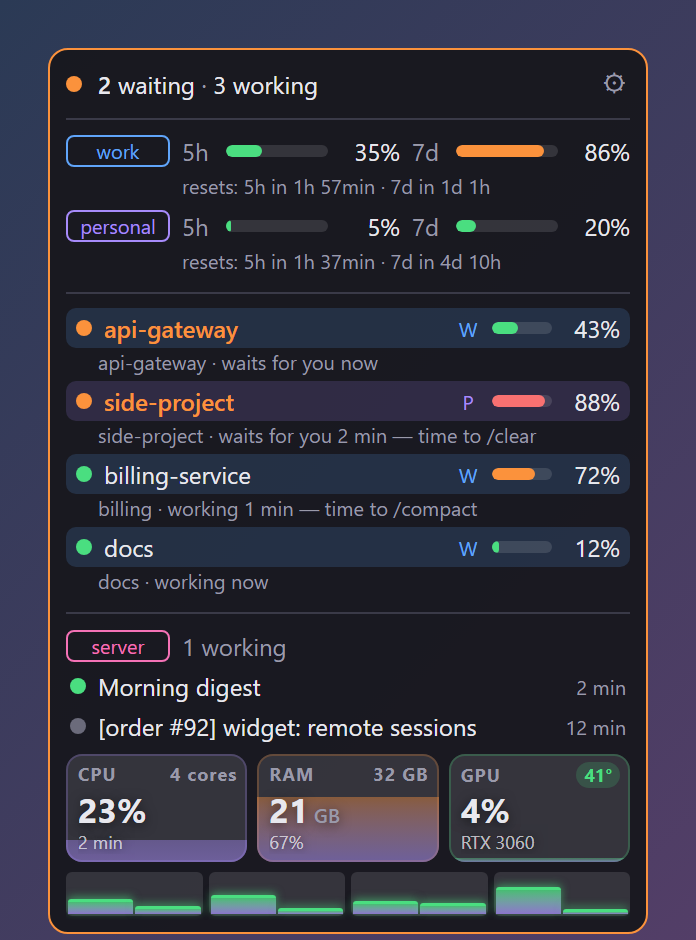
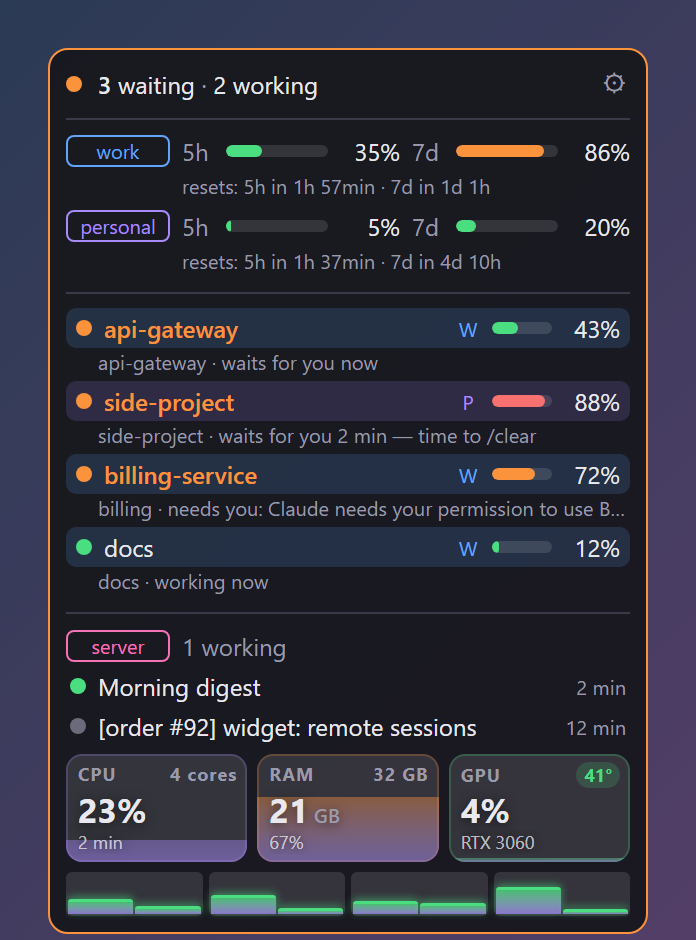
A session the session hub says waits (a permission, a question) shows as "needs you" with what it asks
settings.remote.hubUrl (through the pass URL): the hub's WAITING sessions by Claude Code's session id; the local session files can't tell a permission prompt from working. README, demo data and screenshots.

Changed region(s): [[0.0905, 0.4936, 0.875, 0.5553]]

diff --git a/ui/widget.js b/ui/widget.js
@@ -24,7 +24,10 @@ const folder = (p) => String(p || '').split(/[\\/]/).filter(Boolean).pop() || p
 // A session "waits" when its turn is over (idle) and you haven't clicked it since: the click is the "seen".
 // "shell": the turn is over but a background command still runs (a dev server, a watcher) — the turn is yours like idle;
 // counting it as working left finished sessions "working" for hours (owner 2026-10-20)
-const state = (s) => s.status === 'busy' ? 'busy'
+// the session hub knows what the files don't: a session that waits for a permission or an answer (settings.remote.hubUrl)
+let hubWaiting = {}       // sessionId → what it asks ('' when the hub keeps no text, e.g. a work account)
+const state = (s) => s.sessionId in hubWaiting ? 'wait'
+  : s.status === 'busy' ? 'busy'
   : s.status === 'idle' || s.status === 'shell' ? ((seen[s.sessionId] || 0) >= s.since ? 'idle' : 'wait')
   : 'wait'                // anything else (a permission prompt…) needs you
 const ago = (ms) => {
@@ -114,7 +117,9 @@ function render() {
     const st = state(s)
     const ctx = s.context != null ? Math.round(s.context) : null
     const hint = ctx == null ? '' : ctx >= th.contextFull ? ' — ' + T.clear : ctx >= th.contextWarn ? ' — ' + T.compact : ''
-    const doing = `${st === 'busy' ? T.working : st === 'wait' ? T.waitsForYou : T.free}${s.status === 'shell' ? ' · ' + T.background : ''} ${ago(s.since)}`
+    const asks = s.sessionId in hubWaiting
+    const doing = asks ? T.needsYou + (hubWaiting[s.sessionId] ? ': ' + hubWaiting[s.sessionId] : '')
+      : `${st === 'busy' ? T.working : st === 'wait' ? T.waitsForYou : T.free}${s.status === 'shell' ? ' · ' + T.background : ''} ${ago(s.since)}`
     // the row's tooltip: what the details line and the hidden parts would say (chips and dots show no words)
     const info = [s.name || folder(s.cwd), s.cwd, doing + (s.kind === 'bg' ? ' · ' + T.bg : ''),
       ctx != null ? `${T.context} ${ctx}%${hint}` : '', many ? s.account : ''].filter(Boolean).join('\n')
@@ -224,14 +229,16 @@ let remoteTimer = null
 async function pollRemote() {
   clearTimeout(remoteTimer)
   const r = S.remote
-  if (!r.enabled) { remoteSys = remoteRuns = null; remoteErr = ''; rHist.cpu.length = rHist.mem.length = rHist.gpu.length = 0; drawRemote(); return }
-  const [h, runs] = await Promise.all([
+  if (!r.enabled) { remoteSys = remoteRuns = null; remoteErr = ''; hubWaiting = {}; rHist.cpu.length = rHist.mem.length = rHist.gpu.length = 0; drawRemote(); return }
+  const [h, runs, waits] = await Promise.all([
     r.hostUrl ? invoke('remote_host').then(v => [v]).catch(e => [null, e]) : [null],
     r.runsUrl ? invoke('remote_runs').then(v => [v]).catch(e => [null, e]) : [null],
+    r.hubUrl ? invoke('remote_waiting').then(v => [v]).catch(e => [null, e]) : [null],
   ])
+  hubWaiting = Object.fromEntries((waits[0] || []).map(w => [w.sessionId, w.reason || '']))
   remoteSys = h[0]
   remoteRuns = runs[0]
-  remoteErr = [h[1], runs[1]].filter(Boolean).map(String).join(' · ')
+  remoteErr = [h[1], runs[1], waits[1]].filter(Boolean).map(String).join(' · ')
   if (remoteSys) {
     rHist.cpu.push(remoteSys.cpu)
     rHist.mem.push(remoteSys.memTotal ? remoteSys.memUsed / remoteSys.memTotal * 100 : 0)
@@ -415,6 +422,7 @@ async function openSettings() {
     <label><span>${T.label}</span><input type="text" name="remoteLabel" value="${esc(S.remote.label)}" placeholder="server"><input type="color" name="remoteColor" value="${S.remote.color || PALETTE[S.accounts.length % PALETTE.length]}"></label>
     <div class="hint">${T.remoteHost}</div><input class="wide" type="text" name="remoteHost" value="${esc(S.remote.hostUrl)}" placeholder="http://…/api/v1/monitor/host">
     <div class="hint">${T.remoteRuns}</div><input class="wide" type="text" name="remoteRuns" value="${esc(S.remote.runsUrl)}" placeholder="http://…/api/admin/usage">
+    <div class="hint">${T.remoteHub}</div><input class="wide" type="text" name="remoteHub" value="${esc(S.remote.hubUrl || '')}" placeholder="http://…/api/admin/hub/sessions">
     <div class="hint">${T.passUrl}</div><input class="wide" type="text" name="remotePass" value="${esc(S.remote.passUrl)}">
     <h4>${T.system}</h4>
     ${check('sysEnabled', S.system.enabled, T.sysOn)}${check('sysThreads', S.system.threads, T.sysThreads)}${check('sysGpu', S.system.gpu, T.sysGpu)}
@@ -506,7 +514,7 @@ $('settings').addEventListener('submit', async e => {
       every: Math.min(1440, Math.max(1, Number(v('counterEvery').value) || 5)),
     },
     remote: {enabled: v('remoteEnabled').checked, label: v('remoteLabel').value.trim(), color: v('remoteColor').value,
-      hostUrl: v('remoteHost').value.trim(), runsUrl: v('remoteRuns').value.trim(), passUrl: v('remotePass').value.trim()},
+      hostUrl: v('remoteHost').value.trim(), runsUrl: v('remoteRuns').value.trim(), hubUrl: v('remoteHub').value.trim(), passUrl: v('remotePass').value.trim()},
     system: {enabled: v('sysEnabled').checked, threads: v('sysThreads').checked, gpu: v('sysGpu').checked},
   }
   await invoke('settings_set', {settings: next})

diff --git a/ui/i18n.js b/ui/i18n.js
@@ -5,7 +5,7 @@ window.I18N = {
     nobodyWaits: 'nobody waits',
     sizeHint: 'Drag an edge to resize (the layout adapts); double-click the header for the automatic size',
     busy: (n) => `${n} working`,
-    remote: 'Another machine (optional)', remoteHint: 'A home server where Claude runs unattended: its load (like System) and its Claude runs, as a group of its own. Uses the counter’s token; the pass URL is for the runs.', remoteHost: 'Load URL (JSON: threads, cores, memUsed, memTotal, gpu)', remoteRuns: 'Runs URL (JSON: runs[] with status, title, startedAt)', nothingRuns: 'nothing runs', finished: 'finished', failed: 'failed',
+    remote: 'Another machine (optional)', remoteHint: 'A home server where Claude runs unattended: its load (like System) and its Claude runs, as a group of its own. Uses the counter’s token; the pass URL is for the runs.', remoteHost: 'Load URL (JSON: threads, cores, memUsed, memTotal, gpu)', remoteRuns: 'Runs URL (JSON: runs[] with status, title, startedAt)', nothingRuns: 'nothing runs', finished: 'finished', failed: 'failed', needsYou: 'needs you', remoteHub: 'Session hub URL (JSON: [{sessionId, status, waitingReason}]) — which of these sessions wait for a permission',
     limitsLater: 'limits appear after the statusline runs (⚙ → Connect)',
     noSessions: 'No Claude Code sessions',
     resets: 'resets',
@@ -35,7 +35,7 @@ window.I18N = {
     nobodyWaits: 'никто не ждёт',
     sizeHint: 'Тяните за край — вид подстроится; двойной клик по заголовку — авторазмер',
     busy: (n) => `${n} в работе`,
-    remote: 'Другая машина (необязательно)', remoteHint: 'Домашний сервер, где Claude работает без вас: его нагрузка (как «Система») и запуски Claude — отдельной группой. Токен — тот же, что у счётчика; адрес пропуска нужен для запусков.', remoteHost: 'Адрес нагрузки (JSON: threads, cores, memUsed, memTotal, gpu)', remoteRuns: 'Адрес запусков (JSON: runs[] со status, title, startedAt)', nothingRuns: 'ничего не запущено', finished: 'закончил', failed: 'ошибка',
+    remote: 'Другая машина (необязательно)', remoteHint: 'Домашний сервер, где Claude работает без вас: его нагрузка (как «Система») и запуски Claude — отдельной группой. Токен — тот же, что у счётчика; адрес пропуска нужен для запусков.', remoteHost: 'Адрес нагрузки (JSON: threads, cores, memUsed, memTotal, gpu)', remoteRuns: 'Адрес запусков (JSON: runs[] со status, title, startedAt)', nothingRuns: 'ничего не запущено', finished: 'закончил', failed: 'ошибка', needsYou: 'ждёт разрешения', remoteHub: 'Адрес хаба сессий (JSON: [{sessionId, status, waitingReason}]) — какие из этих сессий ждут разрешения',
     limitsLater: 'лимиты появятся после статуслайна (⚙ → Подключить)',
     noSessions: 'Сессий Claude Code нет',
     resets: 'сброс',

diff --git a/scripts/mock.js b/scripts/mock.js
@@ -12,7 +12,7 @@
     showLimits: true, showContext: true, showBackground: true, expanded: q.get('open') === '1',
     counter: {enabled: false, label: '', url: '', passUrl: '', fields: [], every: 5},
     system: {enabled: false, threads: true, gpu: true},
-    remote: {enabled: q.get('remote') === '1', label: 'server', color: '', hostUrl: 'http://server/host', runsUrl: 'http://server/runs', passUrl: ''},
+    remote: {enabled: q.get('remote') === '1', label: 'server', color: '', hostUrl: 'http://server/host', runsUrl: 'http://server/runs', hubUrl: 'http://server/hub', passUrl: ''},
   }
   const s = (id, account, accountIndex, name, cwd, status, minAgo, context) =>
     ({account, accountIndex, pid: 1, sessionId: id, name, cwd, kind: 'interactive', status, since: now - minAgo * 60000, context})
@@ -34,6 +34,7 @@
     // the other machine (?remote=1)
     remote_host: () => ({cpu: 23, threads: [30, 12, 41, 8, 25, 19, 60, 5], cores: [21, 25, 22, 33], perCore: 2,
       memUsed: 21.4 * 2 ** 30, memTotal: 32 * 2 ** 30, cpuTemp: null, gpu: {name: 'NVIDIA GeForce RTX 3060', load: 4, memUsed: 1.1 * 2 ** 30, memTotal: 12 * 2 ** 30, temp: 41}}),
+    remote_waiting: () => [{sessionId: 'c', reason: 'Claude needs your permission to use Bash'}],
     remote_runs: () => [
       {id: 161, name: 'Morning digest', status: 'busy', startedAt: new Date(now - 2 * 60000).toISOString(), origin: 'SCHEDULE'},
       {id: 160, name: '[order #92] widget: remote sessions', status: 'done', startedAt: new Date(now - 40 * 60000).toISOString(), finishedAt: new Date(now - 12 * 60000).toISOString(), origin: 'ORDER'},

diff --git a/src-tauri/src/remote.rs b/src-tauri/src/remote.rs
@@ -111,6 +111,34 @@ fn runs_of(body: &Value, max: usize) -> Vec<Run> {
     busy.into_iter().chain(over).take(max).collect()
 }
 
+/// A session the hub says waits for the owner: Claude Code's session id and what it asks (none for a redacted account).
+#[derive(Serialize, Debug, PartialEq)]
+#[serde(rename_all = "camelCase")]
+pub struct Waiting {
+    pub session_id: String,
+    pub reason: Option<String>,
+}
+
+/// the hub's sessions in WAITING (format: [{"sessionId", "status", "waitingReason", …}])
+fn waiting_of(body: &Value) -> Vec<Waiting> {
+    body.as_array()
+        .map(|a| a.as_slice())
+        .unwrap_or_default()
+        .iter()
+        .filter(|s| s.get("status").and_then(Value::as_str) == Some("WAITING"))
+        .filter_map(|s| {
+            Some(Waiting {
+                session_id: s.get("sessionId")?.as_str()?.to_string(),
+                reason: s.get("waitingReason").and_then(Value::as_str).map(str::to_string),
+            })
+        })
+        .collect()
+}
+
+pub async fn waiting(remote: &Remote) -> Result<Vec<Waiting>, String> {
+    Ok(waiting_of(&counter::get(&remote.hub_url, &remote.pass_url).await?))
+}
+
 pub async fn runs(remote: &Remote) -> Result<Vec<Run>, String> {
     Ok(runs_of(&counter::get(&remote.runs_url, &remote.pass_url).await?, 4))
 }
@@ -132,6 +160,20 @@ mod tests {
         // no GPU, cores unknown: a column per thread
         let s = stats(serde_json::from_value(json!({"threads": [5, 6, 7], "memUsed": 1, "memTotal": 2, "gpu": null})).unwrap());
         assert_eq!((s.per_core, s.cores.len()), (1, 3));
+    }
+
+    #[test]
+    fn the_hub_names_the_waiting_sessions() {
+        let body = json!([
+            {"sessionId": "a", "status": "WAITING", "waitingReason": "Claude needs your permission to use Bash"},
+            {"sessionId": "b", "status": "BUSY"},
+            {"sessionId": "c", "status": "WAITING", "waitingReason": null},
+        ]);
+        assert_eq!(waiting_of(&body), vec![
+            Waiting { session_id: "a".into(), reason: Some("Claude needs your permission to use Bash".into()) },
+            Waiting { session_id: "c".into(), reason: None },
+        ]);
+        assert!(waiting_of(&json!({})).is_empty());
     }
 
     #[test]

diff --git a/src-tauri/src/main.rs b/src-tauri/src/main.rs
@@ -145,6 +145,16 @@ async fn remote_runs(state: tauri::State<'_, AppState>) -> Result<Vec<remote::Ru
     remote::runs(&remote).await
 }
 
+/// Which of this machine's sessions the session hub says wait for the owner (a permission, a question).
+#[tauri::command]
+async fn remote_waiting(state: tauri::State<'_, AppState>) -> Result<Vec<remote::Waiting>, String> {
+    let remote = current(&state).remote;
+    if !remote.enabled || remote.hub_url.trim().is_empty() {
+        return Err("off".into());
+    }
+    remote::waiting(&remote).await
+}
+
 #[tauri::command]
 fn counter_has_token() -> bool {
     counter::token().is_some()
@@ -205,6 +215,7 @@ fn main() {
             system_stats,
             remote_host,
             remote_runs,
+            remote_waiting,
         ])
         .run(tauri::generate_context!())
         .expect("error while running cc-widget");

diff --git a/src-tauri/src/settings.rs b/src-tauri/src/settings.rs
@@ -81,6 +81,9 @@ pub struct Remote {
     pub color: String,
     pub host_url: String,
     pub runs_url: String,
+    /// the session hub (be-claude-bridge /api/admin/hub/sessions): which of this machine's sessions wait for a
+    /// permission or an answer — the local session files don't say (through the pass URL)
+    pub hub_url: String,
     pub pass_url: String,
 }
 

diff --git a/README.md b/README.md
@@ -83,6 +83,10 @@ Everything is in ⚙:
     "prompt", "startedAt", "finishedAt", "origin"}, …]}`, newest first.
 
   Its working runs count in the header's "working".
+  - optionally a session hub (through the pass URL): `[{"sessionId", "status": "WAITING" | …, "waitingReason"}]` —
+    a session of this machine the hub says waits (a permission prompt, a question) shows as *needs you* with what it
+    asks. The local session files don't tell that apart from working. Your Claude Code sessions report to such a
+    hub through hooks (be-claude-bridge's `POST /api/hub/event`).
 
 Settings are kept in `settings.json` in the app's config folder:
 
